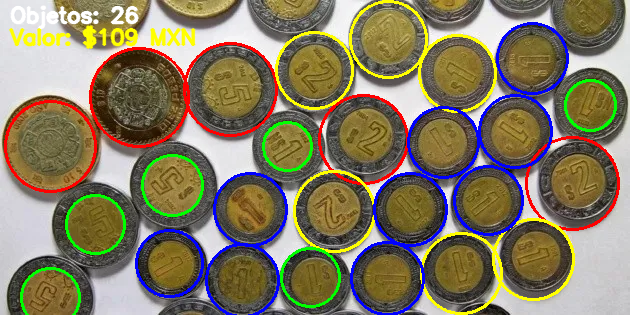
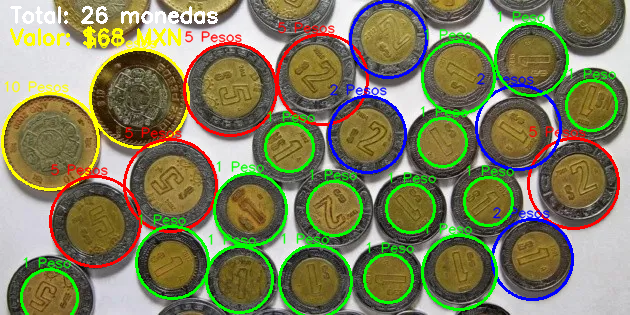
Soy lo mejor del mundo alv

diff --git a/contar_monedas.py b/contar_monedas.py
@@ -1,0 +1,338 @@
+"""
+Conteo de monedas en imagen con:
+- CLAHE (mejora de contraste local)
+- Filtro pasa-altas en Fourier (realce de bordes)
+- Suavizado (GaussianBlur)
+- HoughCircles (detección de círculos) con barrido adaptativo
+- Deduplicación (NMS)
+- Clasificación física (1, 2, 5, 10 pesos) con cortes sesgados.
+
+Cada etapa del procesamiento guarda una imagen intermedia en la carpeta "salidas/".
+
+Uso:
+  python contar_monedas.py --img dineros.webp --save resultado.png --target 25
+
+Requisitos: Python 3, OpenCV (cv2), NumPy.
+"""
+
+import argparse
+import os
+from math import sqrt
+import cv2
+import numpy as np
+
+# ======= CONFIGURACIÓN AJUSTABLE =======
+# Sesgos de corte entre denominaciones. Mayores valores favorecen clasificar hacia la moneda de menor valor.
+BIAS_UMBRAL_5_VS_10 = 1.90
+BIAS_UMBRAL_2_VS_5 = 2.49757
+BIAS_UMBRAL_1_VS_2 = 1.77
+# =======================================
+
+
+# ---------------------- FUNCIONES AUXILIARES ----------------------
+
+
+def fourier_highpass(img_gray: np.ndarray, cutoff: int) -> np.ndarray:
+    """
+    Aplica un filtro pasa-altas ideal en el dominio de Fourier.
+    Elimina bajas frecuencias (fondo) y realza bordes de las monedas.
+    """
+    h, w = img_gray.shape
+    # Transformada de Fourier 2D
+    f = np.fft.fft2(img_gray)
+    fshift = np.fft.fftshift(f)
+
+    # Crea máscara centrada
+    Y, X = np.ogrid[:h, :w]
+    cy, cx = h // 2, w // 2
+    R = np.sqrt((Y - cy) ** 2 + (X - cx) ** 2)
+
+    # Máscara pasa-altas
+    mask = np.ones((h, w), dtype=np.float32)
+    mask[R <= cutoff] = 0.0  # elimina bajas frecuencias (fondo liso)
+
+    # Aplica máscara y reconstruye la imagen
+    f_hp = fshift * mask
+    ishift = np.fft.ifftshift(f_hp)
+    img_hp = np.fft.ifft2(ishift).real
+
+    # Normaliza intensidades
+    img_hp -= img_hp.min()
+    if img_hp.max() > 0:
+        img_hp = img_hp / img_hp.max()
+    return (img_hp * 255).astype(np.uint8)
+
+
+def nms_circles(circles, center_thr_rel=0.80, radius_thr_rel=0.45):
+    """
+    Non-Maximum Suppression (NMS) para eliminar círculos redundantes.
+    Conserva el círculo más grande si hay solapamientos significativos.
+    """
+    circles = sorted(circles, key=lambda t: t[2], reverse=True)
+    keep = []
+    for x, y, r in circles:
+        ok = True
+        for X, Y, R in keep:
+            d = sqrt((x - X) ** 2 + (y - Y) ** 2)
+            if d < center_thr_rel * min(r, R) and abs(r - R) < radius_thr_rel * max(
+                r, R
+            ):
+                ok = False
+                break
+        if ok:
+            keep.append((x, y, r))
+    return keep
+
+
+def hough_sweep(gray, H, W, target=None):
+    """
+    Barrido adaptativo de parámetros de HoughCircles.
+    Prueba diferentes configuraciones para acercarse al número objetivo de monedas.
+    """
+    rmin = max(8, int(0.045 * H))  # radio mínimo relativo
+    rmax = int(0.20 * H)  # radio máximo relativo
+
+    deteccion_mejor = []
+    mejor_gap = 1e9
+
+    for minDist in [30, 28, 26, 24, 22, 20, 18]:
+        for p2 in range(64, 16, -2):
+            circles = cv2.HoughCircles(
+                gray,
+                cv2.HOUGH_GRADIENT,
+                dp=1.2,
+                minDist=minDist,
+                param1=120,
+                param2=p2,
+                minRadius=rmin,
+                maxRadius=rmax,
+            )
+            cur = []
+            if circles is not None:
+                for x, y, r in np.round(circles[0, :]).astype(int):
+                    if rmin <= r <= rmax:
+                        cur.append((x, y, r))
+            cur = nms_circles(cur, 0.80, 0.45)
+
+            # Selecciona la detección más cercana al número objetivo
+            if target is not None:
+                gap = abs(len(cur) - target)
+                if gap < mejor_gap:
+                    mejor_gap = gap
+                    deteccion_mejor = cur
+                if gap <= 1:
+                    return cur
+
+            # Si no hay target, se queda con la detección más poblada
+            if target is None and len(cur) > len(deteccion_mejor):
+                deteccion_mejor = cur
+
+    return deteccion_mejor
+
+
+def clasificar_por_radiokmeans(radii: np.ndarray, k: int = 4):
+    """
+    Clasifica los radios detectados usando K-Means para encontrar grupos.
+    Devuelve etiquetas y centros ordenados de menor a mayor.
+    """
+    if len(radii) == 0:
+        return None, None, 0
+    Z = radii.reshape(-1, 1).astype(np.float32)
+    k = int(min(k, len(Z)))
+    criteria = (cv2.TERM_CRITERIA_EPS + cv2.TERM_CRITERIA_MAX_ITER, 120, 0.05)
+    _compact, labels, centers = cv2.kmeans(
+        Z, k, None, criteria, 12, cv2.KMEANS_PP_CENTERS
+    )
+    centers = centers.flatten()
+    order = np.argsort(centers)
+    remap = {int(order[i]): i for i in range(k)}
+    labels_ranked = np.array([remap[int(c)] for c in labels.flatten()], dtype=int)
+    centers_sorted = np.sort(centers)
+    return labels_ranked, centers_sorted, k
+
+
+def asignar_denominaciones_por_fisica_umbral_sesgado(
+    radii, centers_sorted, bias_5_10=0.65
+):
+    """
+    Asigna denominaciones a partir del tamaño físico de las monedas y umbrales sesgados.
+    Usa proporciones aproximadas (en mm) para monedas mexicanas.
+    """
+    diam_mm = np.array([21.0, 23.0, 25.5, 28.0], dtype=np.float32)
+    r_mm = diam_mm / 2.0
+
+    if len(radii) == 0:
+        return None, None
+
+    # Estima el factor de escala (pixeles por milímetro)
+    k_eff = 0 if centers_sorted is None else min(len(centers_sorted), 4)
+    if k_eff >= 2:
+        obs = centers_sorted[:k_eff].astype(np.float32)
+        exp = r_mm[:k_eff]
+        denom = float(np.dot(exp, exp))
+        alpha = float(np.dot(exp, obs) / denom) if denom > 1e-9 else None
+    elif k_eff == 1:
+        alpha = float(centers_sorted[0]) / float(r_mm[0])
+    else:
+        alpha = float(np.max(radii) / r_mm[-1])
+
+    if alpha is None or not np.isfinite(alpha) or alpha <= 0:
+        alpha = float(np.median(radii) / np.median(r_mm))
+
+    # Radios esperados en pixeles según la escala estimada
+    r1, r2, r5, r10 = (alpha * r_mm).tolist()
+
+    # Cortes sesgados entre denominaciones
+    mid12 = r1 + float(BIAS_UMBRAL_1_VS_2) * (r2 - r1)
+    mid25 = r2 + float(BIAS_UMBRAL_2_VS_5) * (r5 - r2)
+    mid510 = r5 + float(bias_5_10) * (r10 - r5)
+
+    denoms = ["1 Peso", "2 Pesos", "5 Pesos", "10 Pesos"]
+    values = [1, 2, 5, 10]
+
+    asignaciones = []
+    for r in radii:
+        if r < mid12:
+            asignaciones.append(0)
+        elif r < mid25:
+            asignaciones.append(1)
+        elif r < mid510:
+            asignaciones.append(2)
+        else:
+            asignaciones.append(3)
+    return np.array(asignaciones, dtype=int), (denoms, values)
+
+
+# ---------------------- PROCESAMIENTO PRINCIPAL ----------------------
+
+
+def main():
+    # --- Argumentos CLI ---
+    ap = argparse.ArgumentParser()
+    ap.add_argument("--img", required=True, help="Ruta de la imagen de entrada")
+    ap.add_argument("--save", default=None, help="Ruta de salida anotada (opcional)")
+    ap.add_argument(
+        "--target", type=int, default=None, help="Número esperado de monedas (opcional)"
+    )
+    args = ap.parse_args()
+
+    # Crea carpeta de salida si no existe
+    os.makedirs("salidas", exist_ok=True)
+
+    # 1) Lectura de imagen
+    img = cv2.imread(args.img)
+    if img is None:
+        raise FileNotFoundError(f"No se pudo abrir: {args.img}")
+    H, W = img.shape[:2]
+
+    # 2) Mejora de contraste local (CLAHE)
+    lab = cv2.cvtColor(img, cv2.COLOR_BGR2LAB)
+    L, A, B = cv2.split(lab)
+    clahe = cv2.createCLAHE(clipLimit=2.2, tileGridSize=(8, 8))
+    L2 = clahe.apply(L)
+    eq = cv2.cvtColor(cv2.merge([L2, A, B]), cv2.COLOR_LAB2BGR)
+    cv2.imwrite("salidas/1_contraste_CLAHE.png", eq)
+
+    # 3) Filtro pasa-altas en Fourier
+    gray0 = cv2.cvtColor(eq, cv2.COLOR_BGR2GRAY)
+    cutoff = max(10, min(H, W) // 40)
+    hp = fourier_highpass(gray0, cutoff=cutoff)
+    cv2.imwrite("salidas/2_pasa_altas.png", hp)
+
+    # 4) Suavizado para eliminar ruido fino antes de Hough
+    gray = cv2.GaussianBlur(hp, (7, 7), 1.2)
+    cv2.imwrite("salidas/3_suavizado.png", gray)
+
+    # 5) Detección de círculos (Hough)
+    circles = hough_sweep(gray, H, W, target=args.target)
+    out_hough = img.copy()
+    for x, y, r in circles:
+        cv2.circle(out_hough, (x, y), r, (0, 255, 0), 2)
+    cv2.imwrite("salidas/4_circulos_detectados.png", out_hough)
+
+    # 6) Clasificación física por tamaño
+    radii = np.array([r for (_, _, r) in circles], dtype=np.float32)
+    _labels_ranked, centers_sorted, _k_eff = clasificar_por_radiokmeans(radii, k=4)
+    labels_fisica, dv = asignar_denominaciones_por_fisica_umbral_sesgado(
+        radii, centers_sorted, bias_5_10=BIAS_UMBRAL_5_VS_10
+    )
+    denoms, values = (
+        (["1 Peso", "2 Pesos", "5 Pesos", "10 Pesos"], [1, 2, 5, 10])
+        if dv is None
+        else dv
+    )
+
+    # 7) Cálculo de conteo y valor total
+    colors = [(0, 255, 0), (255, 0, 0), (0, 0, 255), (0, 255, 255)]
+    conteo = {d: 0 for d in denoms}
+    valor_total = 0
+
+    if labels_fisica is not None:
+        for i, (x, y, r) in enumerate(circles):
+            idx = int(labels_fisica[i])
+            conteo[denoms[idx]] += 1
+            valor_total += values[idx]
+
+    # --- Reporte en consola ---
+    print("\n--- RESUMEN ---")
+    for d in denoms:
+        print(f"{d}: {conteo[d]}")
+    print(f"Total detectado: {len(circles)} monedas")
+    print(f"Valor total estimado: ${valor_total} MXN")
+
+    # 8) Imagen final anotada
+    if args.save:
+        out = img.copy()
+        for i, (x, y, r) in enumerate(circles):
+            idx = 0 if labels_fisica is None else int(labels_fisica[i])
+            color = colors[idx]
+            cv2.circle(out, (x, y), r, color, 2)
+            cv2.putText(
+                out,
+                denoms[idx],
+                (x - r, y - r - 2),
+                cv2.FONT_HERSHEY_SIMPLEX,
+                0.45,
+                color,
+                1,
+                cv2.LINE_AA,
+            )
+        cv2.putText(
+            out,
+            f"Total: {len(circles)} monedas",
+            (10, 22),
+            cv2.FONT_HERSHEY_SIMPLEX,
+            0.7,
+            (255, 255, 255),
+            2,
+        )
+        cv2.putText(
+            out,
+            f"Valor: ${valor_total} MXN",
+            (10, 44),
+            cv2.FONT_HERSHEY_SIMPLEX,
+            0.7,
+            (0, 255, 255),
+            2,
+        )
+        cv2.imwrite(args.save, out)
+        print(f"Imagen anotada guardada en: {args.save}")
+
+
+# --- EJECUCIÓN DIRECTA ---
+if __name__ == "__main__":
+    main()
+
+
+# ============================ NOTA DE USO ============================
+# Para ejecutar el script desde la terminal:
+#
+#   python contar_monedas.py --img dineros.webp --save salidas/resultado.png --target 25
+#
+# Donde:
+#   --img    -> ruta a la imagen de monedas
+#   --save   -> (opcional) ruta de salida con nombre de archivo
+#   --target -> (opcional) número esperado de monedas, ayuda a ajustar la búsqueda de Hough
+#
+# Las imágenes intermedias se guardan automáticamente en la carpeta "salidas/".
+# =====================================================================
